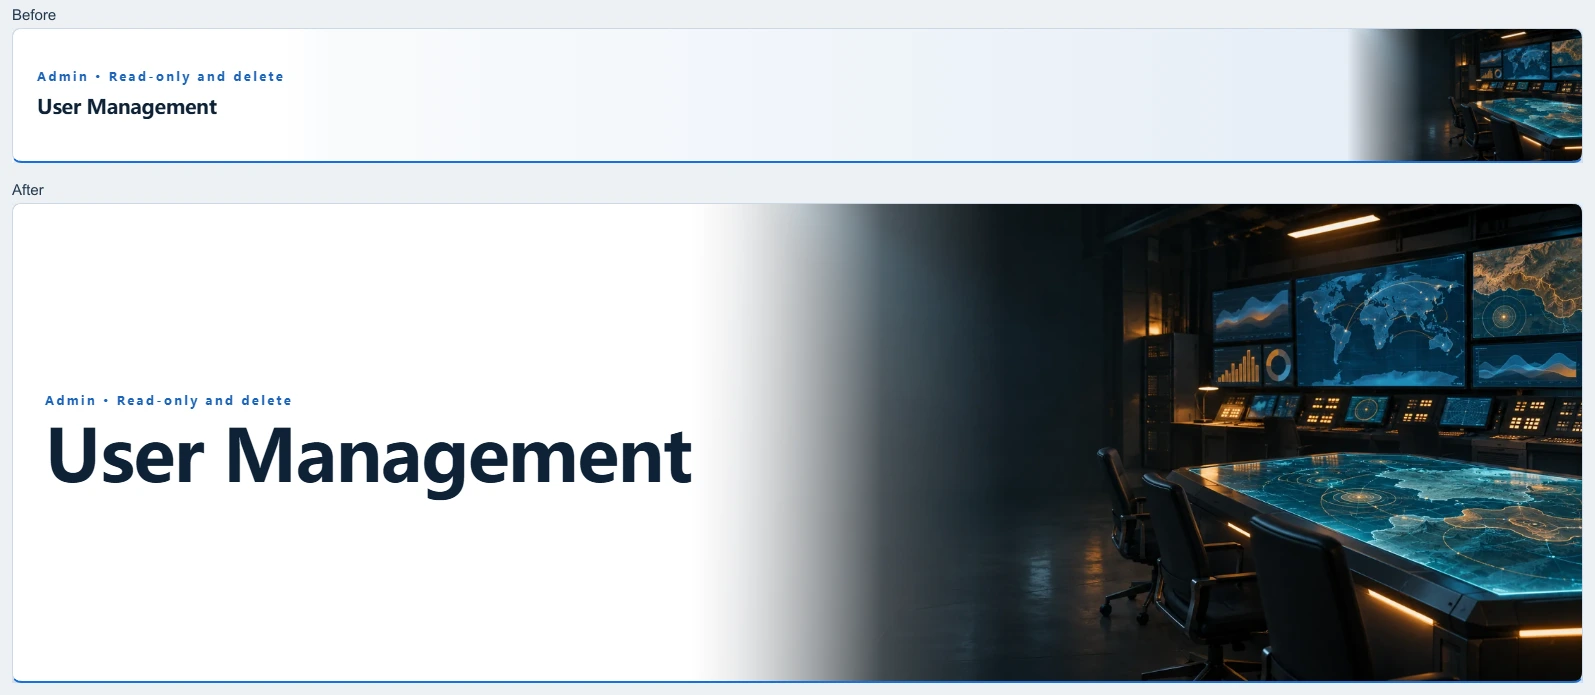
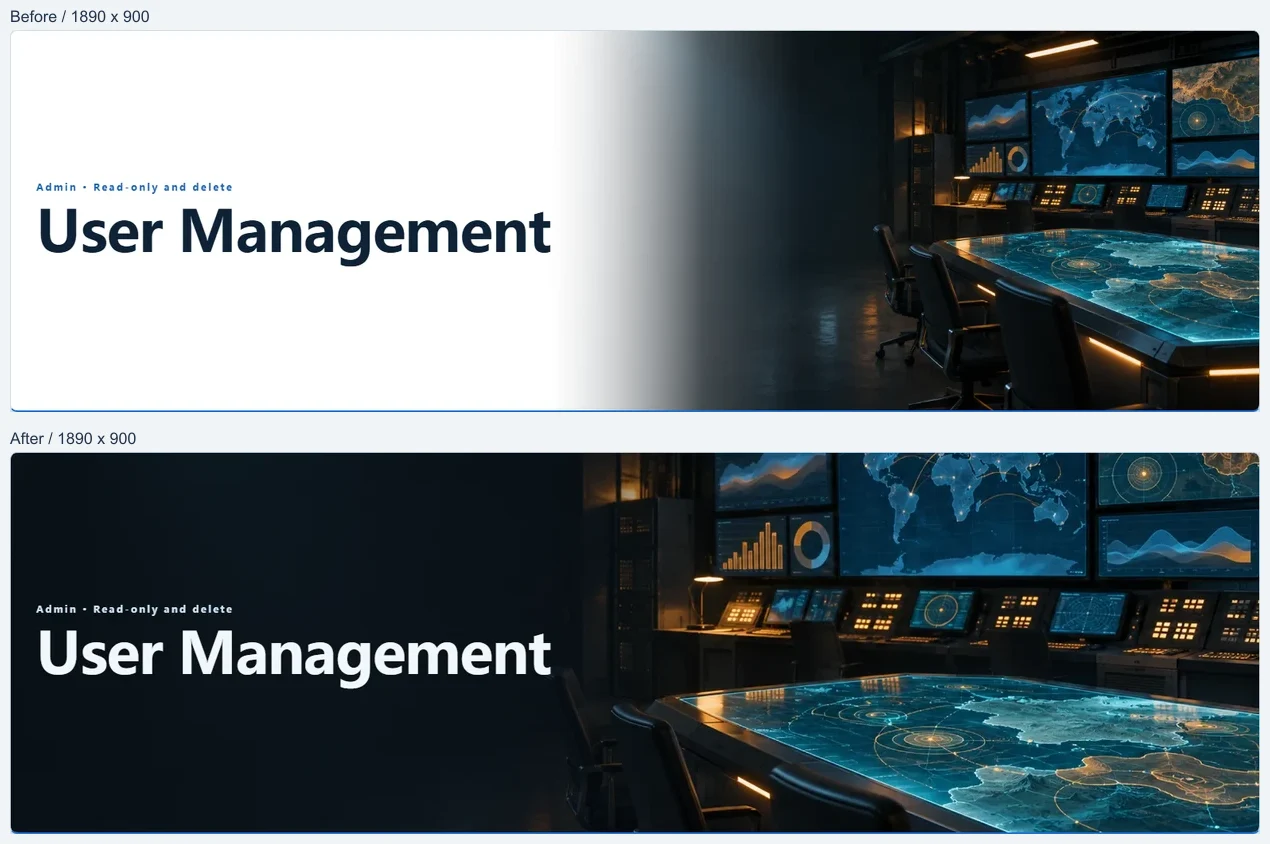
铺满用户管理页头并完善三语分页和反馈卡片布局

diff --git a/frontend/src/components/AdminUsersPage.vue b/frontend/src/components/AdminUsersPage.vue
@@ -152,6 +152,7 @@ onBeforeUnmount(() => {
         <SegmentedControl
           :model-value="segment"
           :options="segmentOptions"
+          wrap
           :aria-label="$t('admin.segment')"
           class="admin-segment"
           @update:model-value="onSegmentChange"
@@ -266,11 +267,15 @@ onBeforeUnmount(() => {
     <div v-if="totalPages > 0" class="admin-list-pagination admin-pagination">
       <span class="admin-page-info">{{ $t('admin.pageInfo', { page: page + 1, total: totalPages, items: totalItems }) }}</span>
       <div class="admin-list-pagination-controls">
-        <AppButton size="sm" class="admin-page-prev" :disabled="page <= 0 || !adminAvailability.available" @click="goPage(page - 1)">{{ $t('admin.prev') }}</AppButton>
-        <AppButton size="sm" class="admin-page-next" :disabled="page + 1 >= totalPages || !adminAvailability.available" @click="goPage(page + 1)">{{ $t('admin.next') }}</AppButton>
-        <span v-if="totalPages > 1" class="admin-page-jump">
+        <div class="admin-page-step">
+          <AppButton size="sm" class="admin-page-prev" :disabled="page <= 0 || !adminAvailability.available" @click="goPage(page - 1)">{{ $t('admin.prev') }}</AppButton>
+          <AppButton size="sm" class="admin-page-next" :disabled="page + 1 >= totalPages || !adminAvailability.available" @click="goPage(page + 1)">{{ $t('admin.next') }}</AppButton>
+        </div>
+        <div v-if="totalPages > 1" class="admin-page-jump">
+          <label for="admin-jump-page">{{ $t('admin.pageNumber') }}</label>
           <input
-            v-model="jumpPage"
+            id="admin-jump-page" v-model="jumpPage"
+            :style="{ '--page-digits': String(totalPages).length + 'ch' }"
             type="number"
             inputmode="numeric"
             min="1"
@@ -278,12 +283,10 @@ onBeforeUnmount(() => {
             step="1"
             class="admin-list-input"
             :disabled="!adminAvailability.available"
-            :aria-label="$t('admin.jumpLabel')"
-            :placeholder="$t('admin.jumpPlaceholder')"
             @keydown.enter.prevent="goJumpPage"
           />
           <AppButton size="sm" class="admin-page-go" :disabled="!adminAvailability.available" @click="goJumpPage">{{ $t('admin.jumpGo') }}</AppButton>
-        </span>
+        </div>
         <div class="admin-page-size-field">
           <span>{{ $t('admin.size') }}</span>
           <SegmentedControl :model-value="String(size)" :options="pageSizeOptions" :aria-label="$t('admin.size')"
@@ -413,10 +416,10 @@ onBeforeUnmount(() => {
 .admin-idp-field { min-width: var(--form-field-min); }
 .admin-filter-hint { margin: 0; }
 .admin-kc-email { display: block; }
-.admin-pagination .admin-list-pagination-controls,
-.admin-page-jump { align-items: stretch; }
-.admin-page-jump, .admin-page-size-field { display: inline-flex; gap: var(--space-2); }
-.admin-page-size-field { align-items: center; color: var(--color-text-secondary); font: var(--type-caption); }
+.admin-pagination .admin-list-pagination-controls { align-items: stretch; gap: var(--space-2) var(--space-5); }
+.admin-page-step, .admin-page-jump, .admin-page-size-field { display: inline-flex; gap: var(--space-2); }
+.admin-page-size-field, .admin-page-jump label { align-items: center; color: var(--color-text-secondary); font: var(--type-caption); }
+.admin-page-jump input.admin-list-input { inline-size: calc(max(4ch, var(--page-digits)) + var(--space-3) * 2 + var(--control-h-sm)); }
 
 .admin-user-identity { display: flex; align-items: center; gap: var(--space-3); margin-bottom: var(--space-5); }
 .admin-user-avatar {

diff --git a/frontend/src/components/ShowcaseHero.vue b/frontend/src/components/ShowcaseHero.vue
@@ -99,7 +99,7 @@ const artStyle = computed(() => (props.section ? sectionHeroStyle(props.section)
   .showcase-hero.is-compact[data-section='admin'] {
     background: linear-gradient(to right, var(--color-surface-1), var(--color-surface-3));
   }
-  .showcase-hero.is-compact[data-section='admin'] .showcase-hero-art {
+  :where(.showcase-hero-host:not(.admin-users-hero)) > .showcase-hero.is-compact[data-section='admin'] .showcase-hero-art {
     inset-inline-start: auto;
     aspect-ratio: 16 / 9;
     background: var(--hero-image) right center / contain no-repeat;
@@ -171,15 +171,21 @@ const artStyle = computed(() => (props.section ? sectionHeroStyle(props.section)
     display: grid;
     align-items: center;
     min-block-size: clamp(132px, min(36vw, 54svh), 480px);
-    background: linear-gradient(100deg, var(--color-surface-1) 10%, var(--color-surface-2) 30%, var(--color-hero-photo-scrim) 72%), var(--color-surface-1);
+  }
+  .admin-users-hero .showcase-hero.is-compact .showcase-hero-art {
+    background: var(--hero-image) var(--hero-pos, center) / cover no-repeat;
   }
   .admin-users-hero .showcase-hero.is-compact .showcase-hero-content {
     --title-fade: clamp(var(--space-12), 12vw, 12rem);
     min-block-size: 0;
     align-self: stretch;
     padding-inline: var(--gutter) var(--title-fade);
-    background: linear-gradient(to right, var(--color-surface-1) calc(100% - var(--title-fade)), transparent);
+    background: linear-gradient(to right, var(--color-hero-photo-scrim) calc(100% - var(--title-fade)), transparent);
   }
-  .admin-users-hero .showcase-hero.is-compact .showcase-hero-title { font: var(--type-display-hero); }
+  .admin-users-hero .showcase-hero-kicker { color: var(--theme-hero-kicker-color, var(--color-accent-text)); }
+  .admin-users-hero .showcase-hero.is-compact .showcase-hero-title {
+    color: var(--theme-hero-title-color, var(--color-text-primary));
+    font: var(--type-display-hero);
+  }
 }
 </style>

diff --git a/frontend/src/components/AdminSiteFeedbackPage.vue b/frontend/src/components/AdminSiteFeedbackPage.vue
@@ -211,8 +211,8 @@ onBeforeUnmount(() => { generation++; detailGeneration++; pendingDetailId.value 
             <td :data-label="$t('siteFeedback.filter')">{{ reasonLabels(item.reasonCodes) }}</td>
             <td class="is-wrap" :data-label="$t('siteFeedback.comment')">{{ previewText(item.feedbackText) }}</td>
             <td :data-label="$t('siteFeedback.page')">{{ item.pageView || '—' }}</td>
-            <td :data-label="$t('siteFeedback.statusLabel')">
-              <SegmentedControl :model-value="item.status" :options="statusOptions(item.id)"
+            <td class="feedback-status-cell" :data-label="$t('siteFeedback.statusLabel')">
+              <SegmentedControl :model-value="item.status" :options="statusOptions(item.id)" wrap
                 :ariaLabel="$t('siteFeedback.statusLabel')" @update:model-value="changeStatus(item, $event)" />
             </td>
           </tr>

diff --git a/frontend/src/components/AdminAiReviewFeedbackPage.vue b/frontend/src/components/AdminAiReviewFeedbackPage.vue
@@ -211,8 +211,8 @@ onBeforeUnmount(() => { generation++; detailGeneration++; pendingDetailId.value 
             <td :data-label="$t('aiFeedback.filter')">{{ reasonLabels(item.reasonCodes) }}</td>
             <td class="is-wrap" :data-label="$t('aiFeedback.comment')">{{ previewText(item.feedbackText) }}</td>
             <td :data-label="$t('aiFeedback.model')">{{ item.model || '—' }}</td>
-            <td :data-label="$t('aiFeedback.statusLabel')">
-              <SegmentedControl :model-value="item.status" :options="statusOptions(item.id)"
+            <td class="feedback-status-cell" :data-label="$t('aiFeedback.statusLabel')">
+              <SegmentedControl :model-value="item.status" :options="statusOptions(item.id)" wrap
                 :ariaLabel="$t('aiFeedback.statusLabel')" @update:model-value="changeStatus(item, $event)" />
             </td>
           </tr>

diff --git a/frontend/src/components/admin-list.css b/frontend/src/components/admin-list.css
@@ -207,6 +207,9 @@
   }
   .admin-list-table tbody tr td:first-child { border-inline-start: 0; }
   .admin-list-table tbody td[data-label]::before { content: attr(data-label); flex: none; color: var(--color-text-secondary); font: var(--type-caption); text-align: start; }
+  .feedback-admin .admin-list-table tbody,
+  .feedback-admin .admin-list-table tbody tr { grid-template-columns: minmax(0, 1fr); }
+  .admin-list-table tbody td.feedback-status-cell { flex-wrap: wrap; align-items: center; }
   .admin-list-table tbody td.cell-primary { text-align: start; }
   .admin-list-table tbody td.cell-check { position: absolute; inset-block-start: var(--space-1); inset-inline-start: var(--space-1); width: auto; }
   .admin-list-table tbody td.cell-actions { justify-content: flex-end; }

diff --git a/docs/frontend/ui-system.md b/docs/frontend/ui-system.md
@@ -82,7 +82,7 @@
 
 ## 管理后台列表模板
 
-管理分区的紧凑页头按标题文字宽度铺设遮罩，覆盖长标签。用户管理页在中大屏按可用视口放大整个页头区域，左侧为标题，右侧等比展示整张配图。手机使用紧凑构图。分页的跳页和每页条数控件同排时上下沿对齐，空间不足时按组换行。用户管理、AI 复盘反馈、站点反馈、战斗数据共用同一页面骨架（推荐视频配置只统一页头 kicker，表单仍是原有双栏）：
+管理分区的紧凑页头按标题文字宽度铺设遮罩，覆盖长标签。用户管理页在中大屏按可用视口放大整个页头区域，同一张配图等比铺满整个区域，标题下方用渐隐遮罩保证可读性。手机使用紧凑构图。分页的跳页和每页条数控件同排时上下沿对齐，空间不足时按翻页、带标签的跳页和每页条数分组换行。用户管理、AI 复盘反馈、站点反馈、战斗数据共用同一页面骨架（推荐视频配置只统一页头 kicker，表单仍是原有双栏）：
 `ShowcaseHero` compact（分区 kicker + 标题，操作在下方工具条）→ `AdminFilterBar`（搜索与筛选）→ `AdminBulkBar`（勾选后出现，现有批量能力）→ `admin-list-table`（表格）→ 分页。
 共享样式在 `components/admin-list.css`，类名统一 `admin-list-` 前缀，只用语义 token。
 
